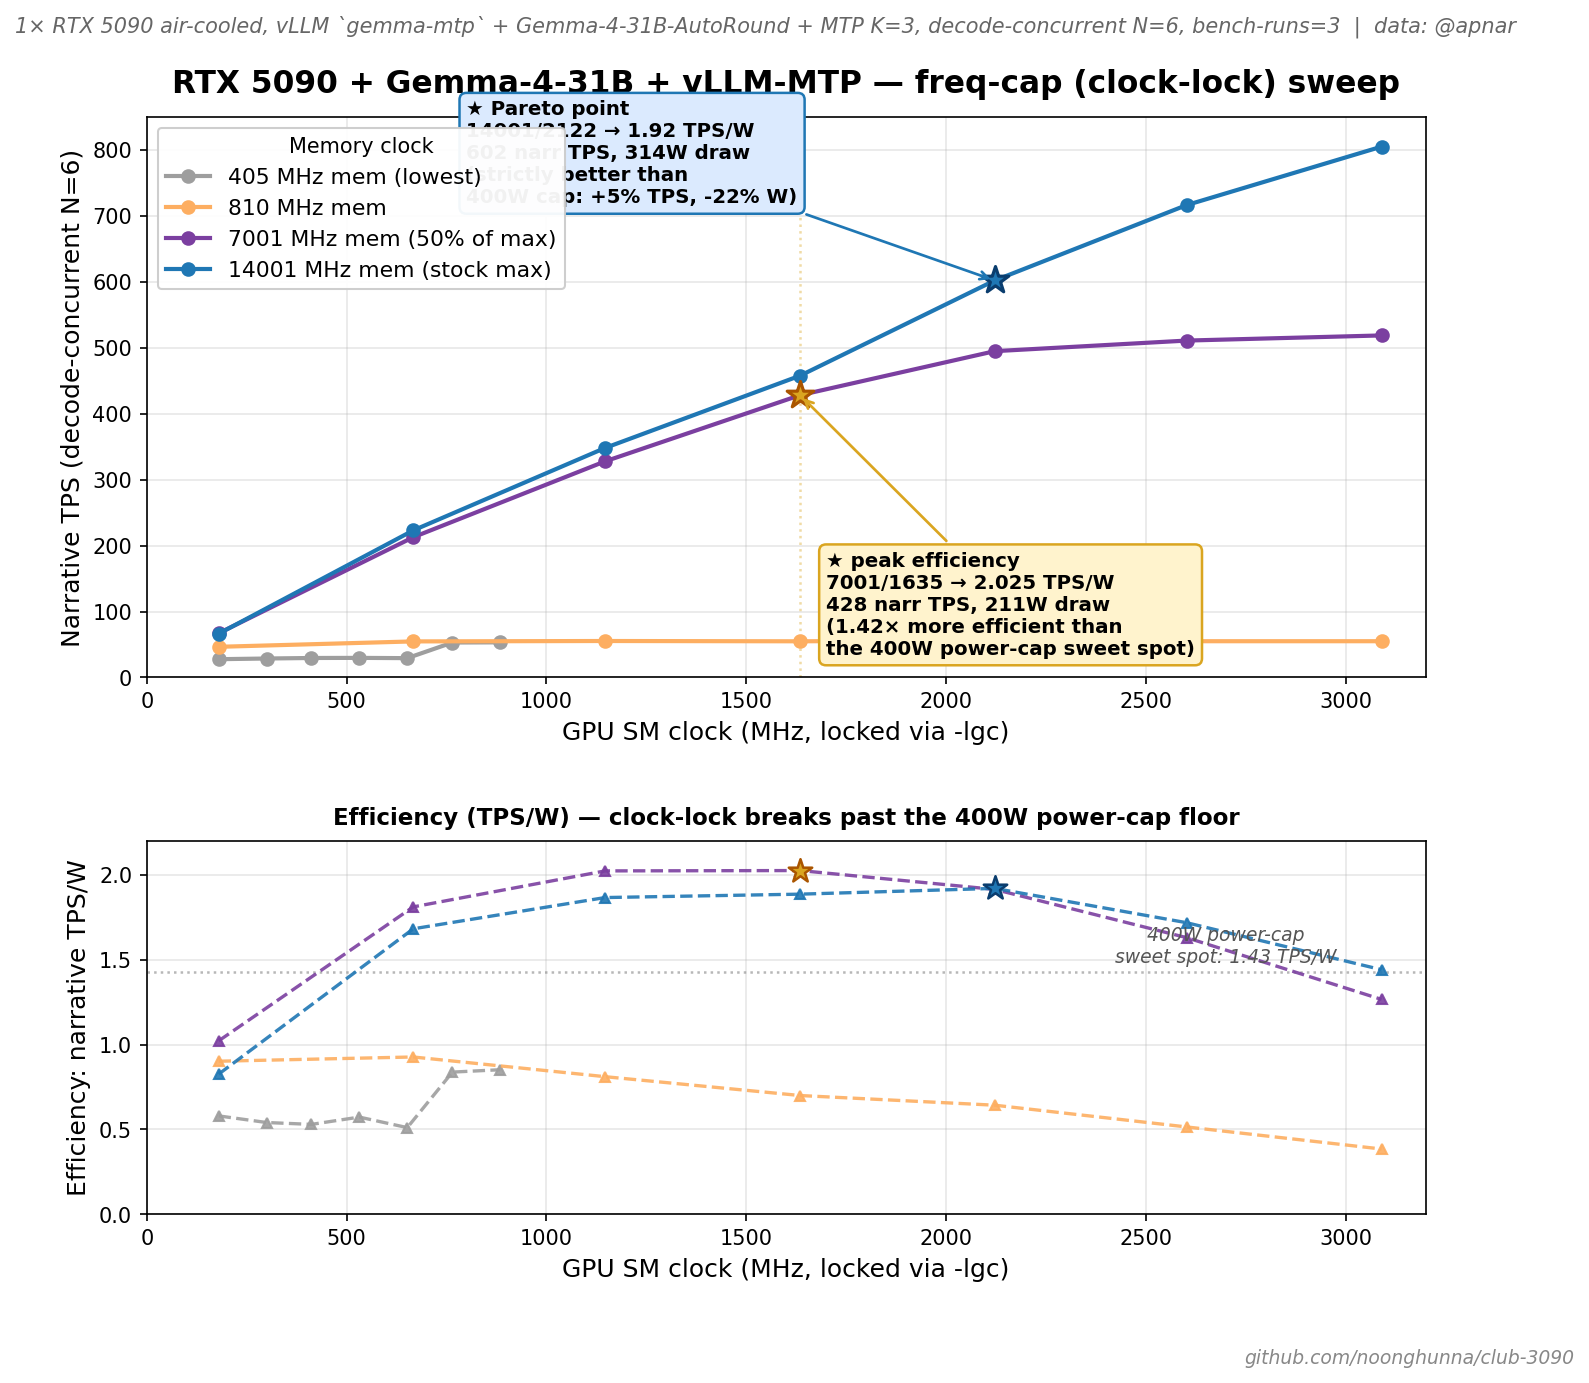
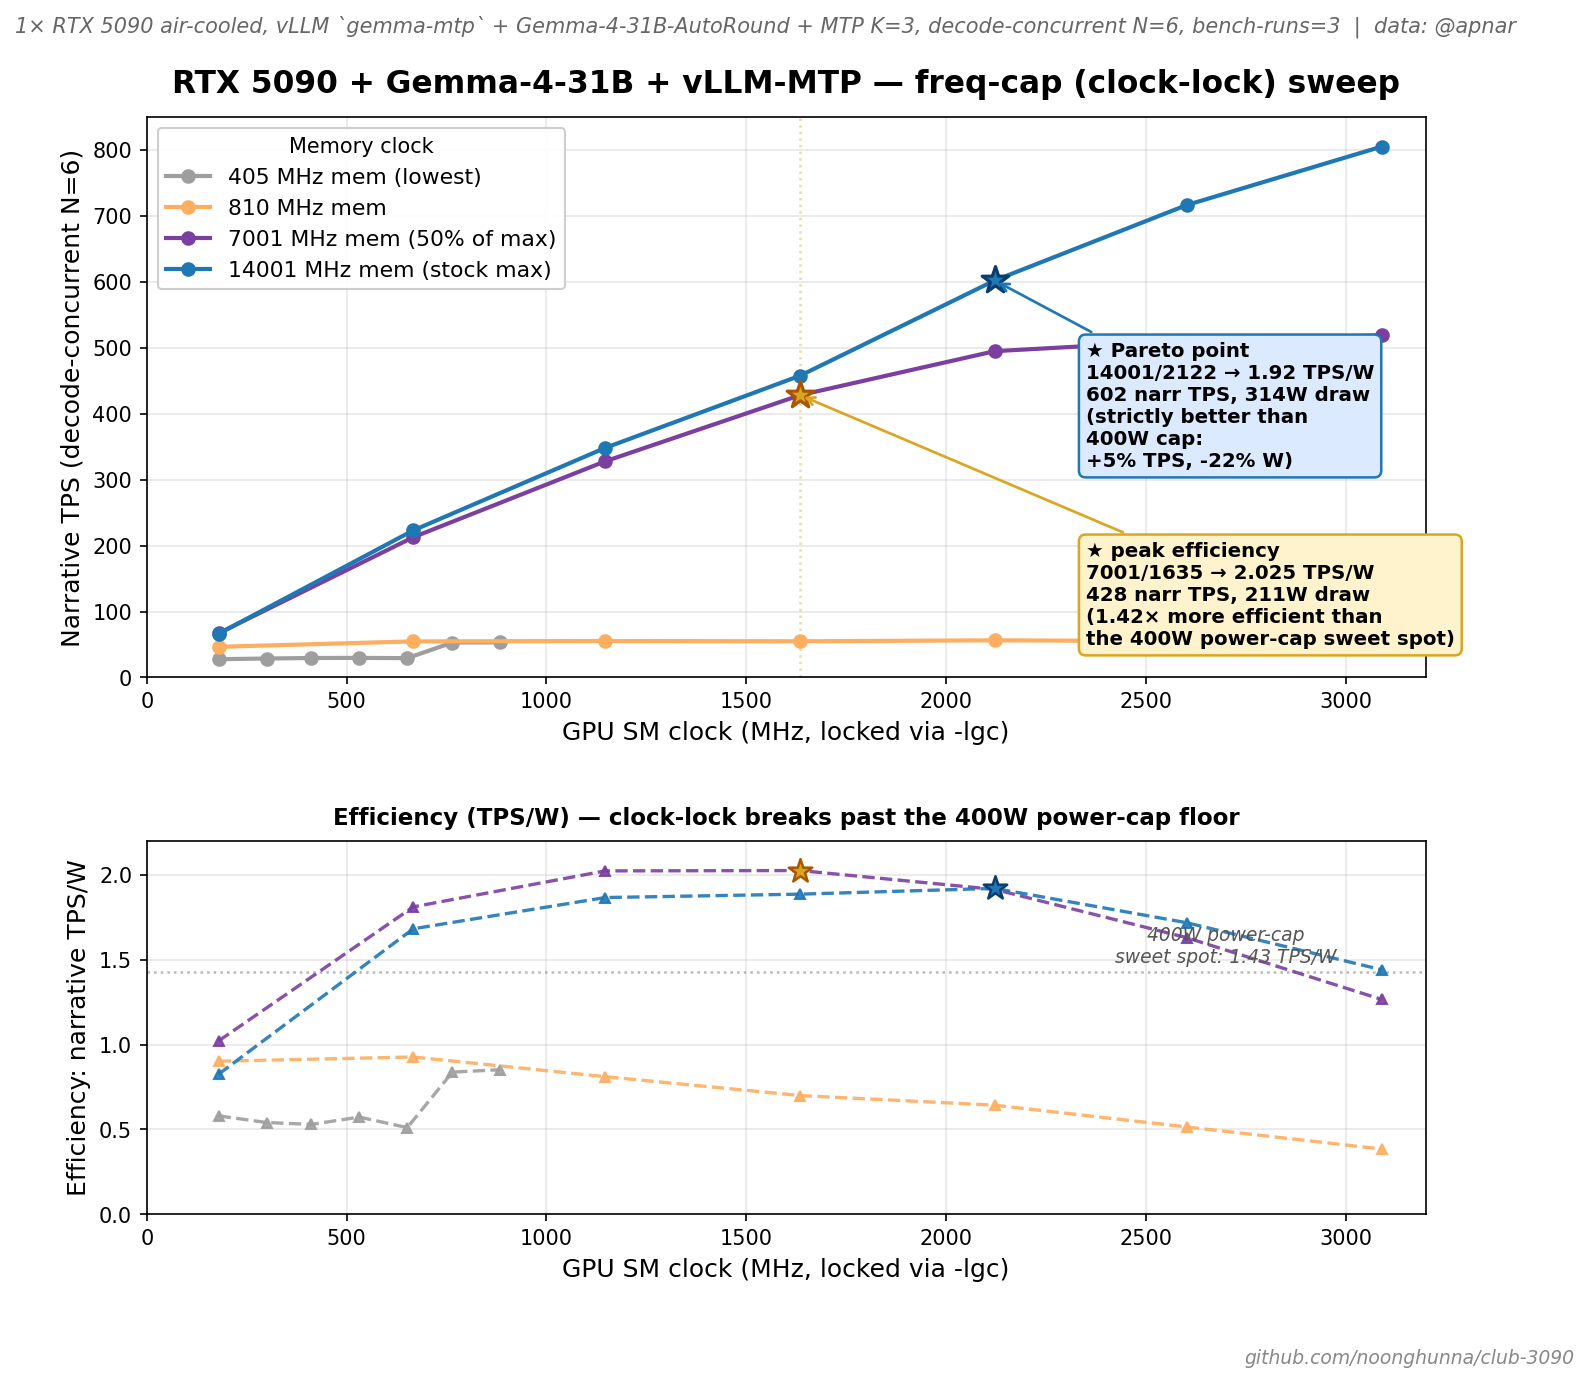
docs(img): reposition freq-cap chart annotations to clear right margin
Pareto annotation was at (800, 720) in upper-middle, overlapping with
the legend at upper-left and clipping behind it. Moved both annotations
to the empty right margin: sweet spot at (2350, 50), Pareto at (2350, 320).
Both arrows now point up-left to their respective stars; boxes are clear
of all data lines and the legend.

diff --git a/docs/img/freq-cap-5090-gemma4.py b/docs/img/freq-cap-5090-gemma4.py
@@ -114,7 +114,7 @@ ax1.scatter([1635], [428.19], s=180, color="goldenrod", marker="*",
 ax1.annotate(
     "★ peak efficiency\n7001/1635 → 2.025 TPS/W\n428 narr TPS, 211W draw\n(1.42× more efficient than\nthe 400W power-cap sweet spot)",
     xy=(1635, 428.19),
-    xytext=(1700, 35),
+    xytext=(2350, 50),
     fontsize=9.5,
     fontweight="bold",
     bbox=dict(boxstyle="round,pad=0.35", facecolor="#fff3cd",
@@ -127,9 +127,9 @@ ax1.annotate(
 ax1.scatter([2122], [602.20], s=180, color="#1f77b4", marker="*",
             edgecolors="#0a3d6e", linewidths=1.5, zorder=5)
 ax1.annotate(
-    "★ Pareto point\n14001/2122 → 1.92 TPS/W\n602 narr TPS, 314W draw\n(strictly better than\n400W cap: +5% TPS, -22% W)",
+    "★ Pareto point\n14001/2122 → 1.92 TPS/W\n602 narr TPS, 314W draw\n(strictly better than\n400W cap:\n+5% TPS, -22% W)",
     xy=(2122, 602.20),
-    xytext=(800, 720),
+    xytext=(2350, 320),
     fontsize=9.5,
     fontweight="bold",
     bbox=dict(boxstyle="round,pad=0.35", facecolor="#dbeafe",